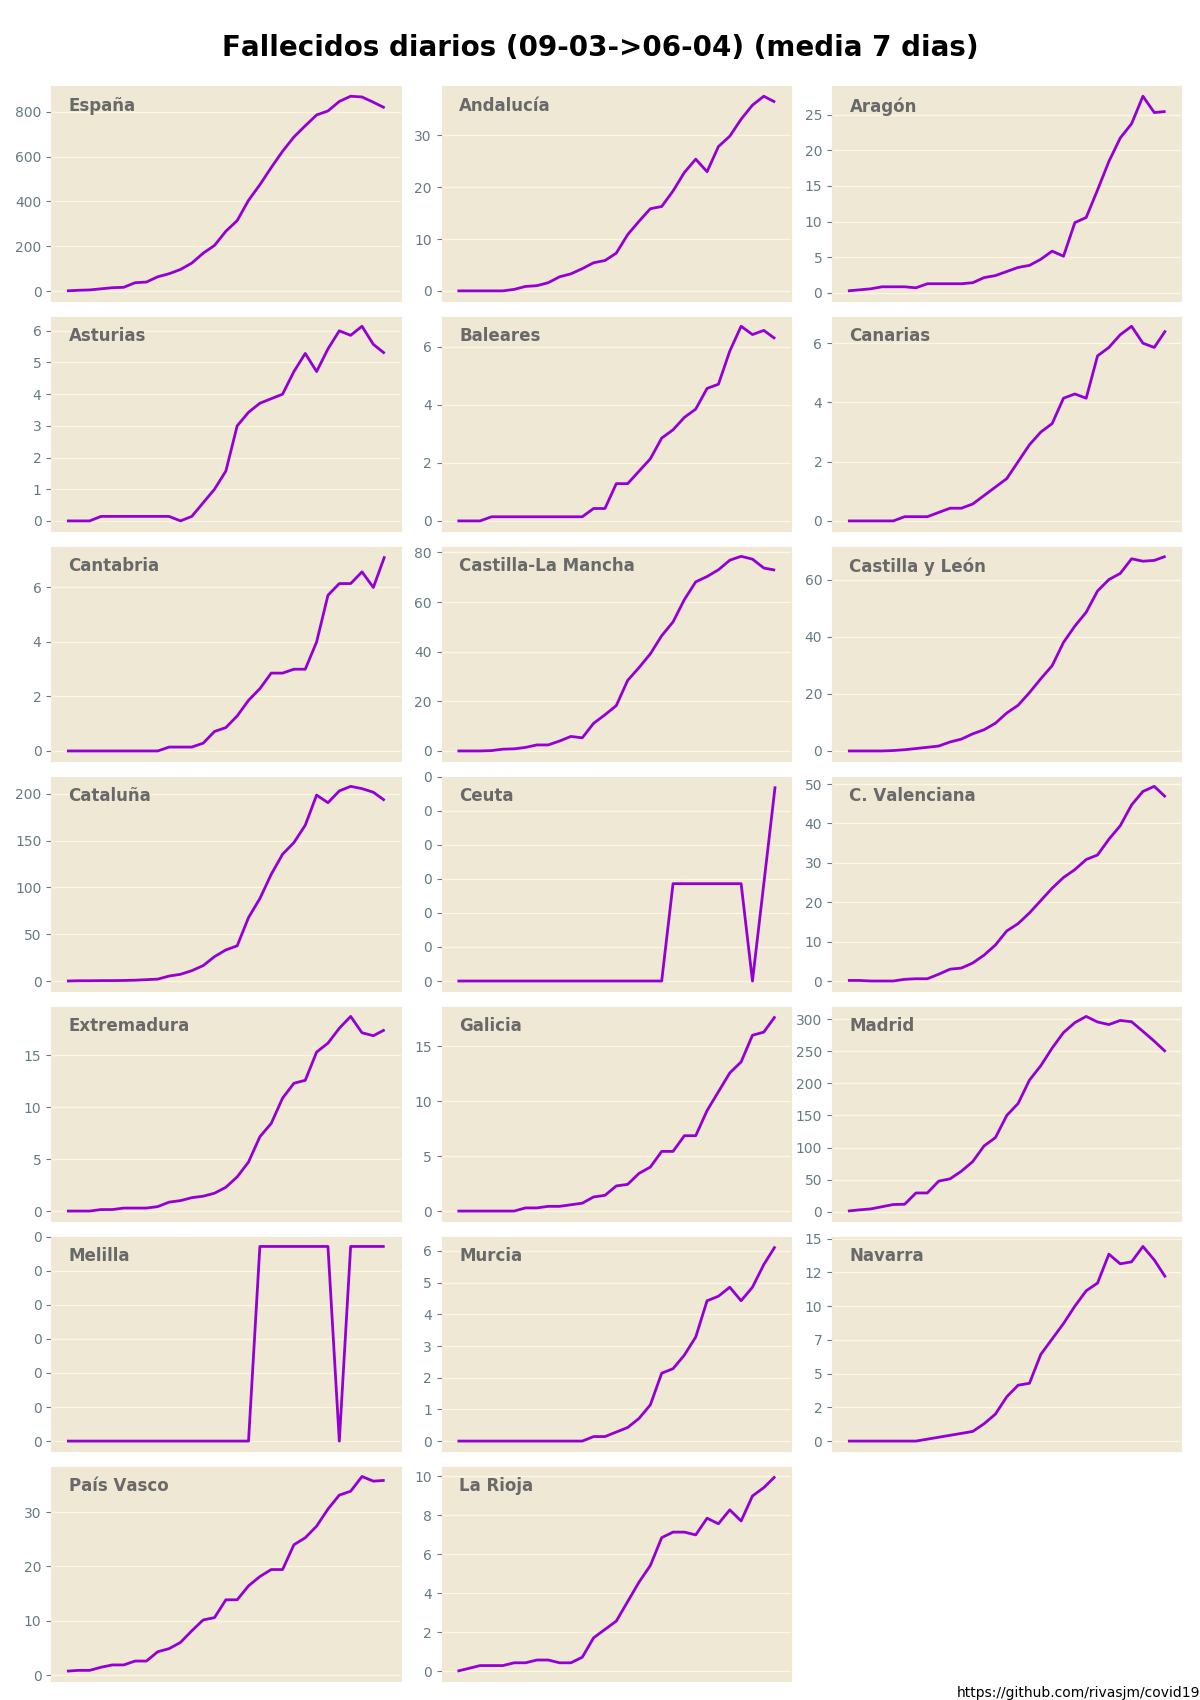
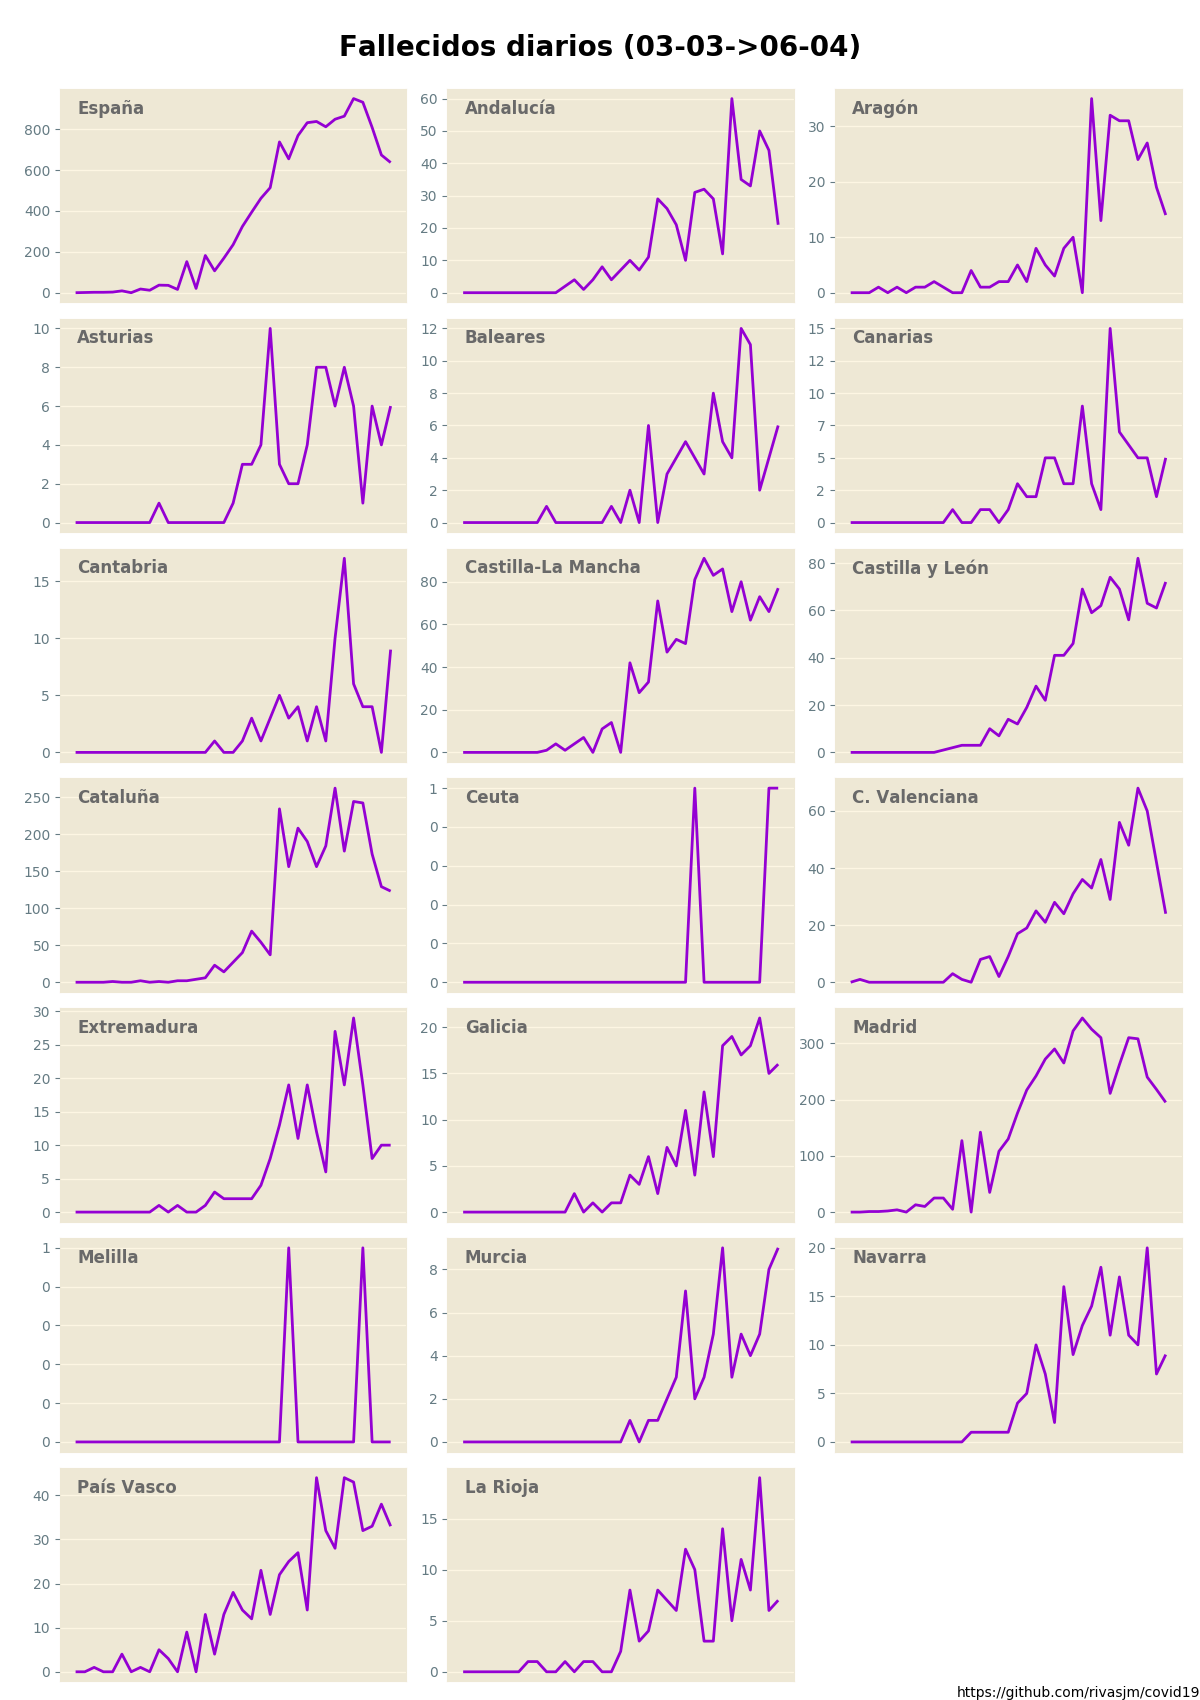
update

diff --git a/spain_charts.py b/spain_charts.py
@@ -143,7 +143,8 @@ if __name__ == '__main__':
     grid(Data.CASOS, "casos_diarios_per_capita.png", 7, 3, sizex=12, sizey=17, incremental=True, per_capita=True, avg_window=7, overview=True)
     grid(Data.CASOS, "casos_diarios.png", 7, 3, sizex=12, sizey=17, incremental=True, per_capita=False)
     grid(Data.CASOS, "casos_diarios_media.png", 7, 3, sizex=12, sizey=17, incremental=True, per_capita=False, avg_window=7)
-    grid(Data.FALLECIDOS, "fallecidos_diarios.png", 7, 3, sizex=12, sizey=17, incremental=True, per_capita=False, avg_window=7)
+    grid(Data.FALLECIDOS, "fallecidos_diarios.png", 7, 3, sizex=12, sizey=17, incremental=True, per_capita=False)
+    grid(Data.FALLECIDOS, "fallecidos_diarios_media.png", 7, 3, sizex=12, sizey=17, incremental=True, per_capita=False, avg_window=7)
     grid(Data.UCI, "uci_diarios.png", 7, 3, sizex=12, sizey=17, incremental=True, per_capita=False, avg_window=7)
     grid(Data.CASOS, "casos_per_capita.png", 7, 3, sizex=12, sizey=17, incremental=False, per_capita=True, overview=True)
     grid(Data.CASOS, "casos.png", 7, 3, sizex=12, sizey=17, incremental=False, per_capita=False, overview=True, log=True)

diff --git a/README.md b/README.md
@@ -7,6 +7,7 @@ Data from https://github.com/datadista/datasets
 ![casos_diarios.png](casos_diarios.png)
 ![casos_diarios_media.png](casos_diarios_media.png)
 ![fallecidos_diarios.png](fallecidos_diarios.png)
+![fallecidos_diarios_media.png](fallecidos_diarios_media.png)
 ![uci_diarios.png](uci_diarios.png)
 ![casos_per_capita.png](casos_per_capita.png)
 ![casos.png](casos.png)
